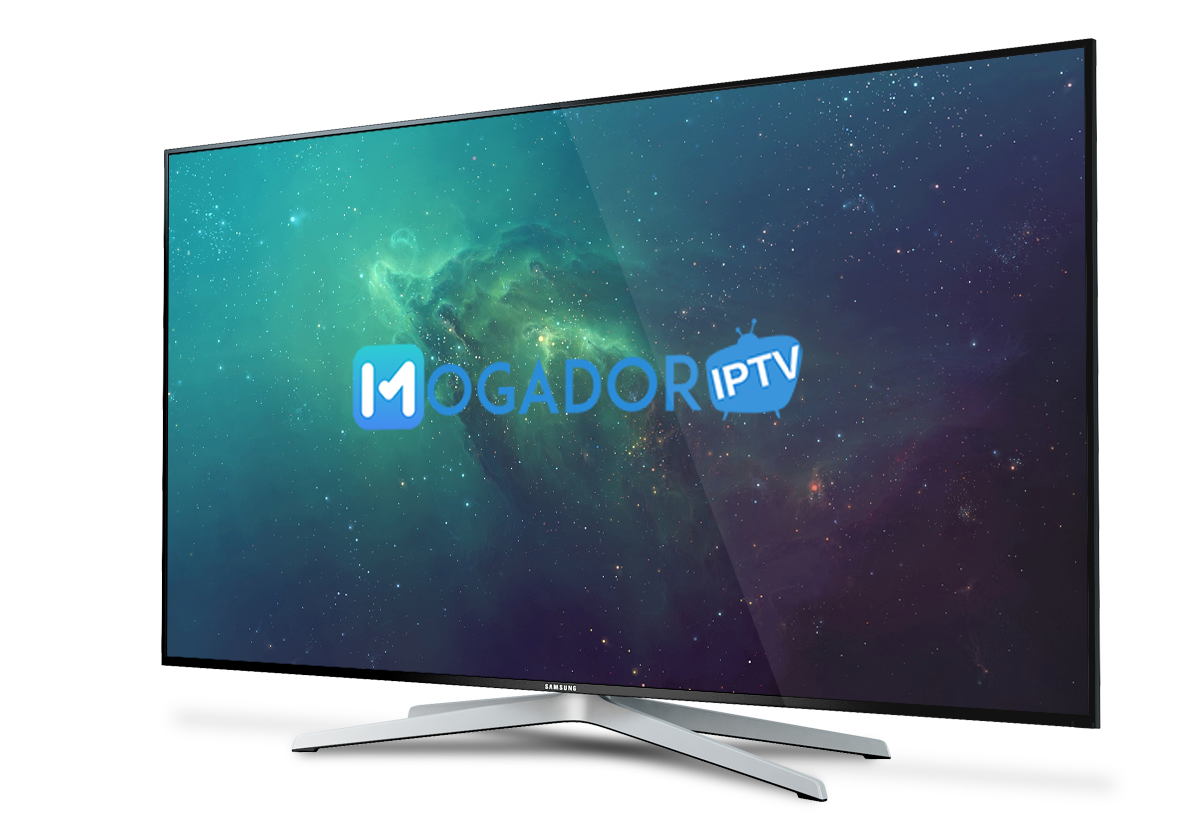
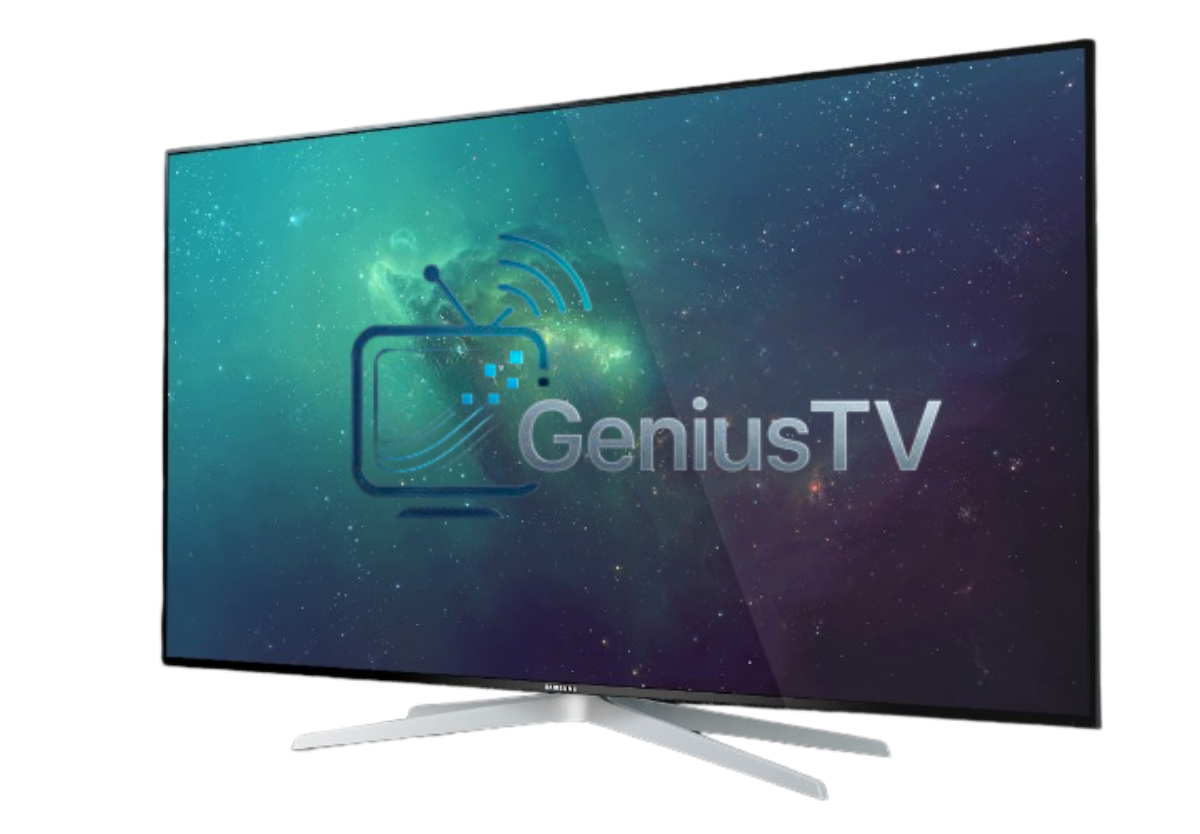
Update website metadata, improve scrolling behavior, and adjust image references

diff --git a/index.html b/index.html
@@ -7,9 +7,11 @@
     <meta name="viewport" content="width=device-width, initial-scale=1">
     <meta name="msapplication-tap-highlight" content="no">
     <!-- The above 3 meta tags *must* come first in the head; any other head content must come *after* these tags -->
-    <meta name="description" content="Mogador iptv">
-    <meta name="author" content="Med Nabouli">
-    <title>MOGADOR IPTV</title>
+    <meta name="description" content="GeniusTV is a leading IPTV service provider, offering a wide range of channels and VOD content for an exceptional viewing experience.">
+    <meta name="keywords" content="IPTV, GeniusTV, Live TV, VOD, Channels, Streaming, Entertainment, Movies, Series, Sports">
+    <meta name="author" content="GeniusTV Team">
+    <!-- <meta name="author" content="Med Nabouli"> -->
+    <title>GeniusTV</title>
 
     <!---------------------------------------------------------------------------------------------- STYLESHEETS -->
     <link rel="icon" href="images/Logo1.png"> <!-- Browser Tab Icon -->
@@ -42,7 +44,7 @@
     <link rel="apple-touch-icon" sizes="152x152" href="ico/apple-icon-152x152.png">
     <link rel="apple-touch-icon" sizes="180x180" href="ico/apple-icon-180x180.png">
     <link rel="icon" type="image/png" sizes="192x192" href="ico/android-icon-192x192.png">
-    <link rel="icon" type="image/png" sizes="32x32" href="ico/favicon-32x32.png">
+    <link rel="icon" type="image/png" sizes="32x32" href="ico/favicon.ico">
     <link rel="icon" type="image/png" sizes="96x96" href="ico/favicon-96x96.png">
     <link rel="icon" type="image/png" sizes="16x16" href="ico/favicon-16x16.png">
     <link rel="manifest" href="ico/manifest.json">
@@ -496,7 +498,7 @@
 
                         <!-- mobile image -->
                         <figure class="accordion-img">
-                            <img src="images\accordion-5.png" alt="Image">
+                            <img src="images/accordion-5.png.png" alt="Image">
                         </figure>
                         <!-- end -->
 
@@ -719,7 +721,7 @@
                                         </li>
                                     </ul>
                                     <!-- button -->
-                                    <a href="#">Buy Now</a>
+                                    <a href="#quick-support">Buy Now</a>
                                 </div>
                                 <div class="col-xs-12 col-sm-6 col-md-3 box">
                                     <div class="price">$30</div>
@@ -747,7 +749,7 @@
                                         </li>
                                     </ul>
                                     <!-- button -->
-                                    <a href="#">Buy Now</a>
+                                    <a href="#quick-support">Buy Now</a>
                                 </div>
                                 <div class="col-xs-12 col-sm-6 col-md-3 box">
                                     <div class="price">$50</div>
@@ -775,7 +777,7 @@
                                         </li>
                                     </ul>
                                     <!-- button -->
-                                    <a href="#">Buy Now</a>
+                                    <a href="#quick-support">Buy Now</a>
                                 </div>
                                 <div class="col-xs-12 col-sm-6 col-md-3 box">
                                     <div class="price">$80</div>
@@ -803,7 +805,7 @@
                                         </li>
                                     </ul>
                                     <!-- button -->
-                                    <a href="#">Buy Now</a>
+                                    <a href="#quick-support">Buy Now</a>
                                 </div>
                             </div>
 
@@ -838,7 +840,7 @@
                                         </li>
                                     </ul>
                                     <!-- button -->
-                                    <a href="#">Buy Now</a>
+                                    <a href="#quick-support">Buy Now</a>
                                 </div>
                                 <div class="col-xs-12 col-sm-6 col-md-3 box">
                                     <div class="price">$50</div>
@@ -866,7 +868,7 @@
                                         </li>
                                     </ul>
                                     <!-- button -->
-                                    <a href="#">Buy Now</a>
+                                    <a href="#quick-support">Buy Now</a>
                                 </div>
                                 <div class="col-xs-12 col-sm-6 col-md-3 box">
                                     <div class="price">$85</div>
@@ -894,7 +896,7 @@
                                         </li>
                                     </ul>
                                     <!-- button -->
-                                    <a href="#">Buy Now</a>
+                                    <a href="#quick-support">Buy Now</a>
                                 </div>
                                 <div class="col-xs-12 col-sm-6 col-md-3 box">
                                     <div class="price">$130</div>
@@ -922,7 +924,7 @@
                                         </li>
                                     </ul>
                                     <!-- button -->
-                                    <a href="#">Buy Now</a>
+                                    <a href="#quick-support">Buy Now</a>
                                 </div>
                             </div>
 
@@ -957,7 +959,7 @@
                                         </li>
                                     </ul>
                                     <!-- button -->
-                                    <a href="#">Buy Now</a>
+                                    <a href="#quick-support">Buy Now</a>
                                 </div>
                                 <div class="col-xs-12 col-sm-6 col-md-3 box">
                                     <div class="price">$75</div>
@@ -985,7 +987,7 @@
                                         </li>
                                     </ul>
                                     <!-- button -->
-                                    <a href="#">Buy Now</a>
+                                    <a href="#quick-support">Buy Now</a>
                                 </div>
                                 <div class="col-xs-12 col-sm-6 col-md-3 box">
                                     <div class="price">$120</div>
@@ -1013,7 +1015,7 @@
                                         </li>
                                     </ul>
                                     <!-- button -->
-                                    <a href="#">Buy Now</a>
+                                    <a href="#quick-support">Buy Now</a>
                                 </div>
                                 <div class="col-xs-12 col-sm-6 col-md-3 box">
                                     <div class="price">$180</div>
@@ -1041,7 +1043,7 @@
                                         </li>
                                     </ul>
                                     <!-- button -->
-                                    <a href="#">Buy Now</a>
+                                    <a href="#quick-support">Buy Now</a>
                                 </div>
                             </div>
 

diff --git a/css/style.min.css b/css/style.min.css
@@ -4,7 +4,8 @@ html {
 
 body,
 html {
-    width: 100%
+    width: 100%;
+    scroll-behavior: smooth;
 }
 
 body {
